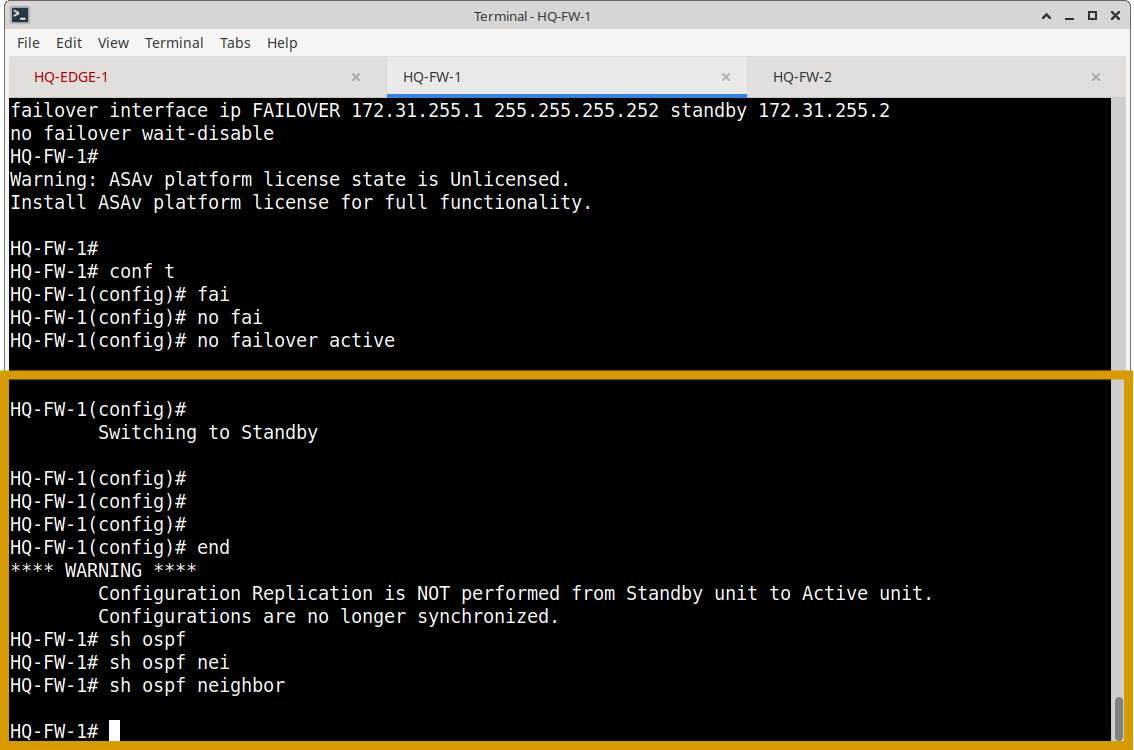
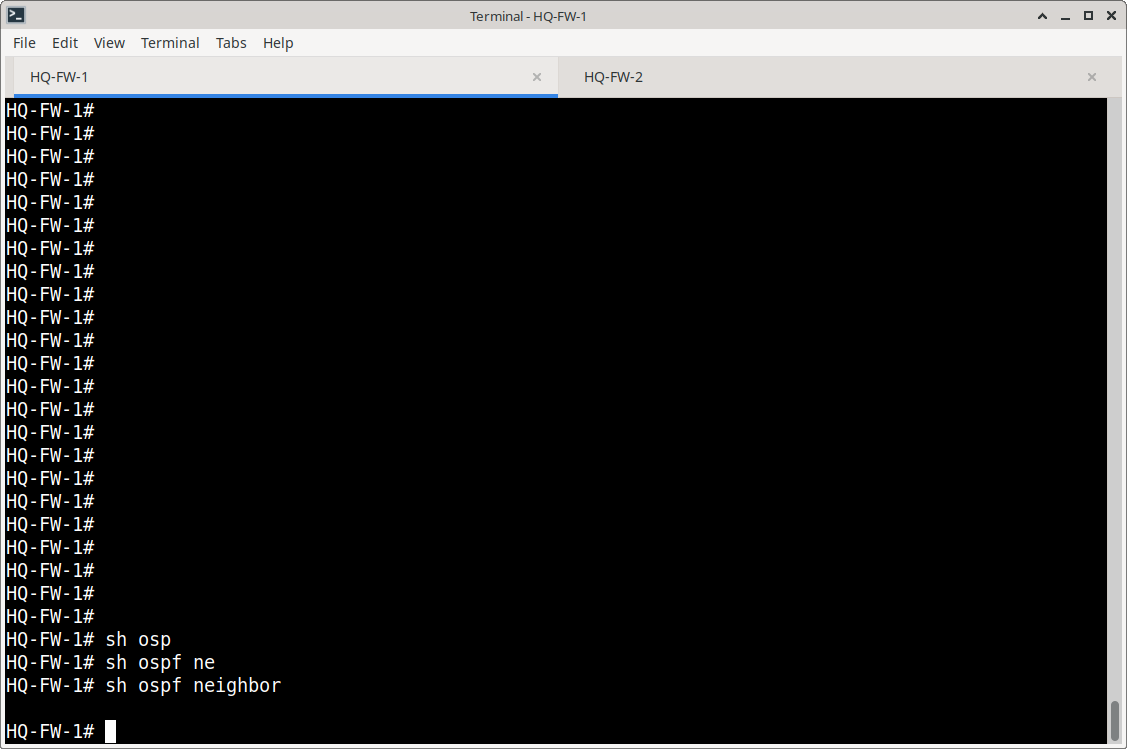
“README”

Changed region(s): [[0.0, 0.0, 1.0, 1.0], [0.4037, 0.0, 0.528, 0.0307]]

diff --git a/Cisco-ASA-Firewall/configuration.md b/Cisco-ASA-Firewall/configuration.md
@@ -62,26 +62,30 @@ show failover interface
 
 ![ASA](screenshots/fw-2-sh-ospf-neighbor-during-failure.png)
 
-### Summary
-
-| Check | Before failure | During failure | Result |
+**Test:** `no failover active` on HQ-FW-1 (Primary/Active) to force HQ-FW-2 to take over.
+ 
+| Check | Before | During | Result |
 |---|---|---|---|
-| FW-1 failover state | Primary, Active (active time 1779 s, last failure reason: None) | `no failover active` → "Switching to Standby" | FW-1 demoted as intended |
-| FW-2 failover state | Secondary, Standby Ready (active time 0 s) | "Switching to Active" | FW-2 promoted |
-| OSPF on FW-1 | 4 neighbors, all FULL | No neighbors (empty output) | Expected: a standby unit holds no adjacencies |
-| OSPF on FW-2 | Standby, adjacencies held by FW-1 | 4 neighbors, all FULL | Adjacencies re-formed on FW-2 |
-| OSPF neighbor set | 10.255.10.11 and .12 (HQ-LAN), 10.255.10.1 and .2 (edge) | Same four neighbors, same addresses | No neighbors lost |
-| Interface IPs | FW-1 active: 10.255.110.3, 10.255.111.1, 10.10.80.1. FW-2 standby: 10.255.110.4, 10.255.111.2, 10.10.80.2 | FW-2 shows Gi0/0 10.255.110.3, Gi0/2 10.255.111.1, Gi0/4 10.10.80.1, all up/up | FW-2 took over the active IPs |
-| Config sync | In sync (Sync Skipped on active) | FW-1 warns standby-to-active replication is not performed | Expected after manual demotion |
-
+| FW-1 role | Primary, **Active** (95 s) | Primary, **Standby Ready** | Demoted at 05:46:23 UTC |
+| FW-2 role | Secondary, **Standby Ready** | Secondary, **Active** (16 s) | Promoted at 05:46:25 UTC |
+| Last failure reason | None / None | None / None | Manual failover, no fault |
+| Active IPs | FW-1: 10.255.110.3, 10.255.111.1 | FW-2: 10.255.110.3, 10.255.111.1 | Same IPs, now on FW-2 |
+| Standby IPs | FW-2: 10.255.110.4, 10.255.111.2 | FW-1: 10.255.110.4, 10.255.111.2 | Roles swapped |
+| OSPF neighbors | FW-1: 4 × FULL, FW-2: none | FW-2: 4 × FULL, FW-1: none | Same neighbors, served by the new active |
+ 
+**OSPF neighbor table (identical before and after, only the unit changes):** 10.255.10.11 (HQ-LAN, 10.255.111.3), 10.255.10.12 (HQ-LAN, 10.255.111.6), 10.255.10.1 (EDGE-ROUTERS, 10.255.110.1), 10.255.10.2 (EDGE-ROUTERS, 10.255.110.2).
+ 
 ### Evidence
-
-| Before failure | During failure |
+ 
+| Before | During |
 |---|---|
-| ![FW-1 failover before](screenshots/fw-1-sh-failover-state-before.png) | ![FW-1 shutdown](screenshots/fw-1-intentional-shutdown.png) |
-| ![FW-2 failover before](screenshots/fw-2-sh-failover-state-before.png) | |
-| ![FW-2 OSPF before](screenshots/fw-2-sh-ospf-neighbor-before.png) | ![FW-2 OSPF during](screenshots/fw-2-sh-ospf-neighbor-during-failure.png) |
-| ![FW-2 int brief before](screenshots/fw-2-sh-int-ip-brief-before.png) | ![FW-2 int brief during](screenshots/fw-2-sh-int-ip-brief-during-failure.png) |
+| ![FW-1 failover](screenshots/fw-1-sh-failover-before.png) | ![no failover active](screenshots/fw-1-no-failover-active-during.png) |
+| ![FW-2 failover state](screenshots/fw-2-sh-failover-state-before.png) | ![FW-1 failover](screenshots/fw-1-sh-failover-during.png) |
+| | ![FW-1 failover state](screenshots/fw-1-sh-failover-state-during.png) |
+| | ![FW-2 failover](screenshots/fw-2-sh-failover-during.png) |
+| ![FW-1 OSPF](screenshots/fw-1-sh-ospf-neighbor-before.png) | ![FW-2 OSPF](screenshots/fw-2-sh-ospf-neighbor-during.png) |
+| ![FW-2 OSPF (none)](screenshots/fw-2-sh-ospf-neighbor-before.png) | ![FW-1 OSPF (none)](screenshots/fw-1-sh-ospf-neighbor-during.png) |
+| ![FW-2 int brief](screenshots/fw-2-sh-int-ip-brief-before.png) | ![FW-2 int brief](screenshots/fw-2-sh-int-ip-brief-during.png) |
 
 
 ---
